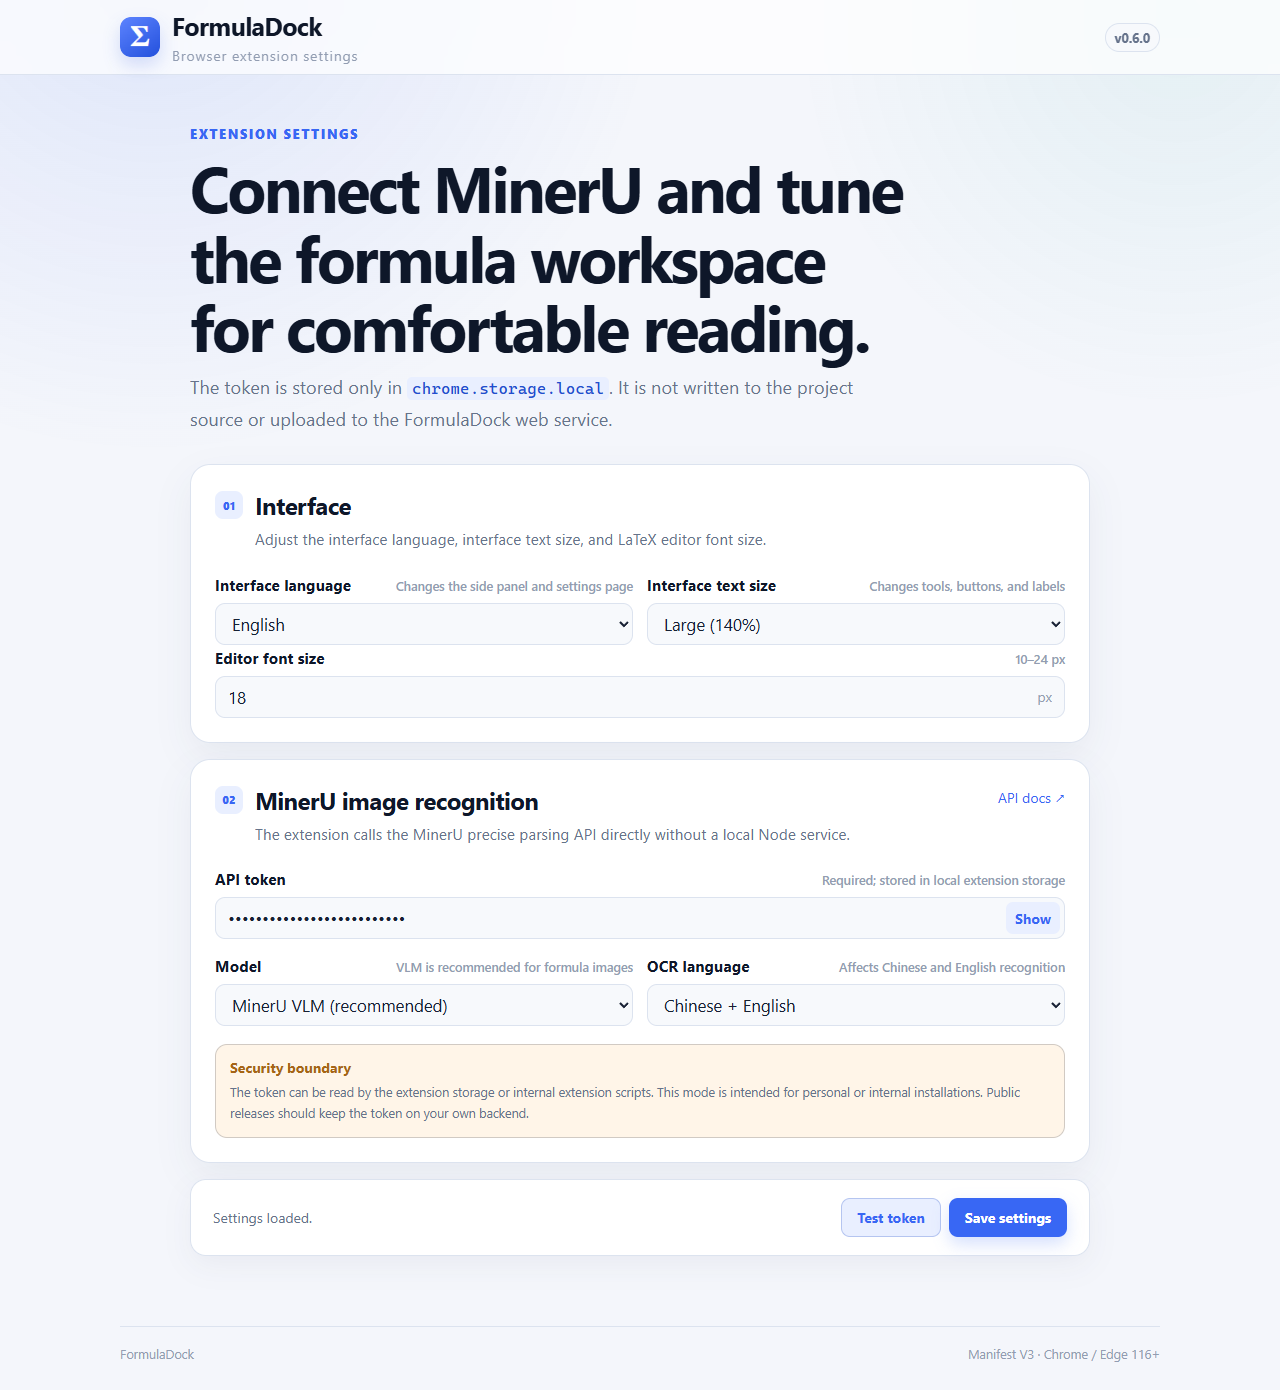
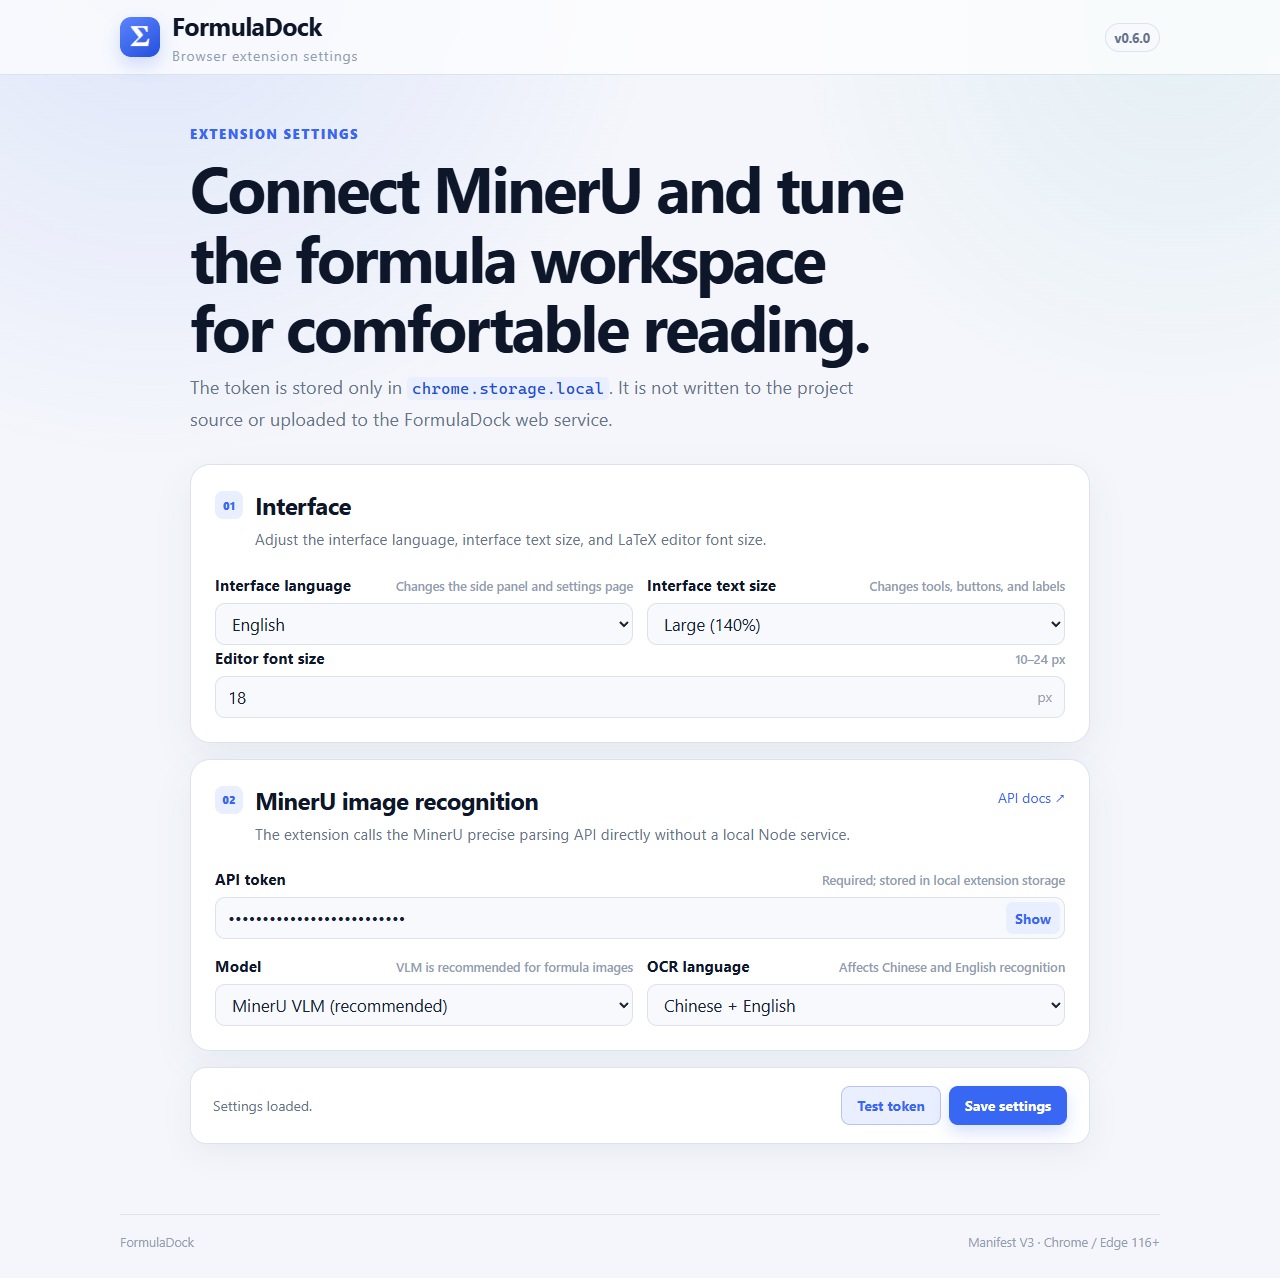
fix: remove extension security notice

diff --git a/extension/options.js b/extension/options.js
@@ -50,8 +50,6 @@ const I18N = {
     ocrLanguageHint: '影响中文/英文识别',
     ocrLanguageCh: '中文 + English',
     ocrLanguageEn: 'English',
-    securityTitle: '安全边界',
-    securityBody: 'Token 可以读取扩展存储或被扩展内部脚本使用。此模式适合个人/内部安装；若发布给不受信任的公开用户，应改为由你的后端保管 Token。',
 
     testToken: '测试 Token',
     testing: '测试中…',
@@ -103,8 +101,6 @@ const I18N = {
     ocrLanguageHint: 'Affects Chinese and English recognition',
     ocrLanguageCh: 'Chinese + English',
     ocrLanguageEn: 'English',
-    securityTitle: 'Security boundary',
-    securityBody: 'The token can be read by the extension storage or internal extension scripts. This mode is intended for personal or internal installations. Public releases should keep the token on your own backend.',
 
     testToken: 'Test token',
     testing: 'Testing…',

diff --git a/extension/options.css b/extension/options.css
@@ -191,17 +191,6 @@ code {
 }
 .inline-button:hover { background: color-mix(in srgb, var(--accent) 16%, var(--card)); }
 
-.security-note {
-  margin-top: 18px;
-  padding: 13px 14px;
-  border: 1px solid color-mix(in srgb, var(--warning) 20%, var(--border));
-  border-radius: 12px;
-  background: var(--warning-soft);
-}
-.security-note strong { color: var(--warning); font-size: calc(10px * var(--ui-font-scale, 1)); }
-.security-note p { margin: 5px 0 0; color: var(--muted); font-size: calc(9px * var(--ui-font-scale, 1)); line-height: 1.65; }
-
-
 .settings-actions {
   display: flex;
   align-items: center;

diff --git a/extension/options.html b/extension/options.html
@@ -132,14 +132,7 @@
             </label>
           </div>
 
-          <div class="security-note">
-            <strong data-i18n="securityTitle">安全边界</strong>
-            <p data-i18n="securityBody">
-              Token 可以读取扩展存储或被扩展内部脚本使用。此模式适合个人/内部安装；若发布给不受信任的公开用户，应改为由你的后端保管 Token。
-            </p>
-          </div>
         </section>
-
 
         <section class="settings-actions">
           <div id="status" class="status" role="status" aria-live="polite"></div>
